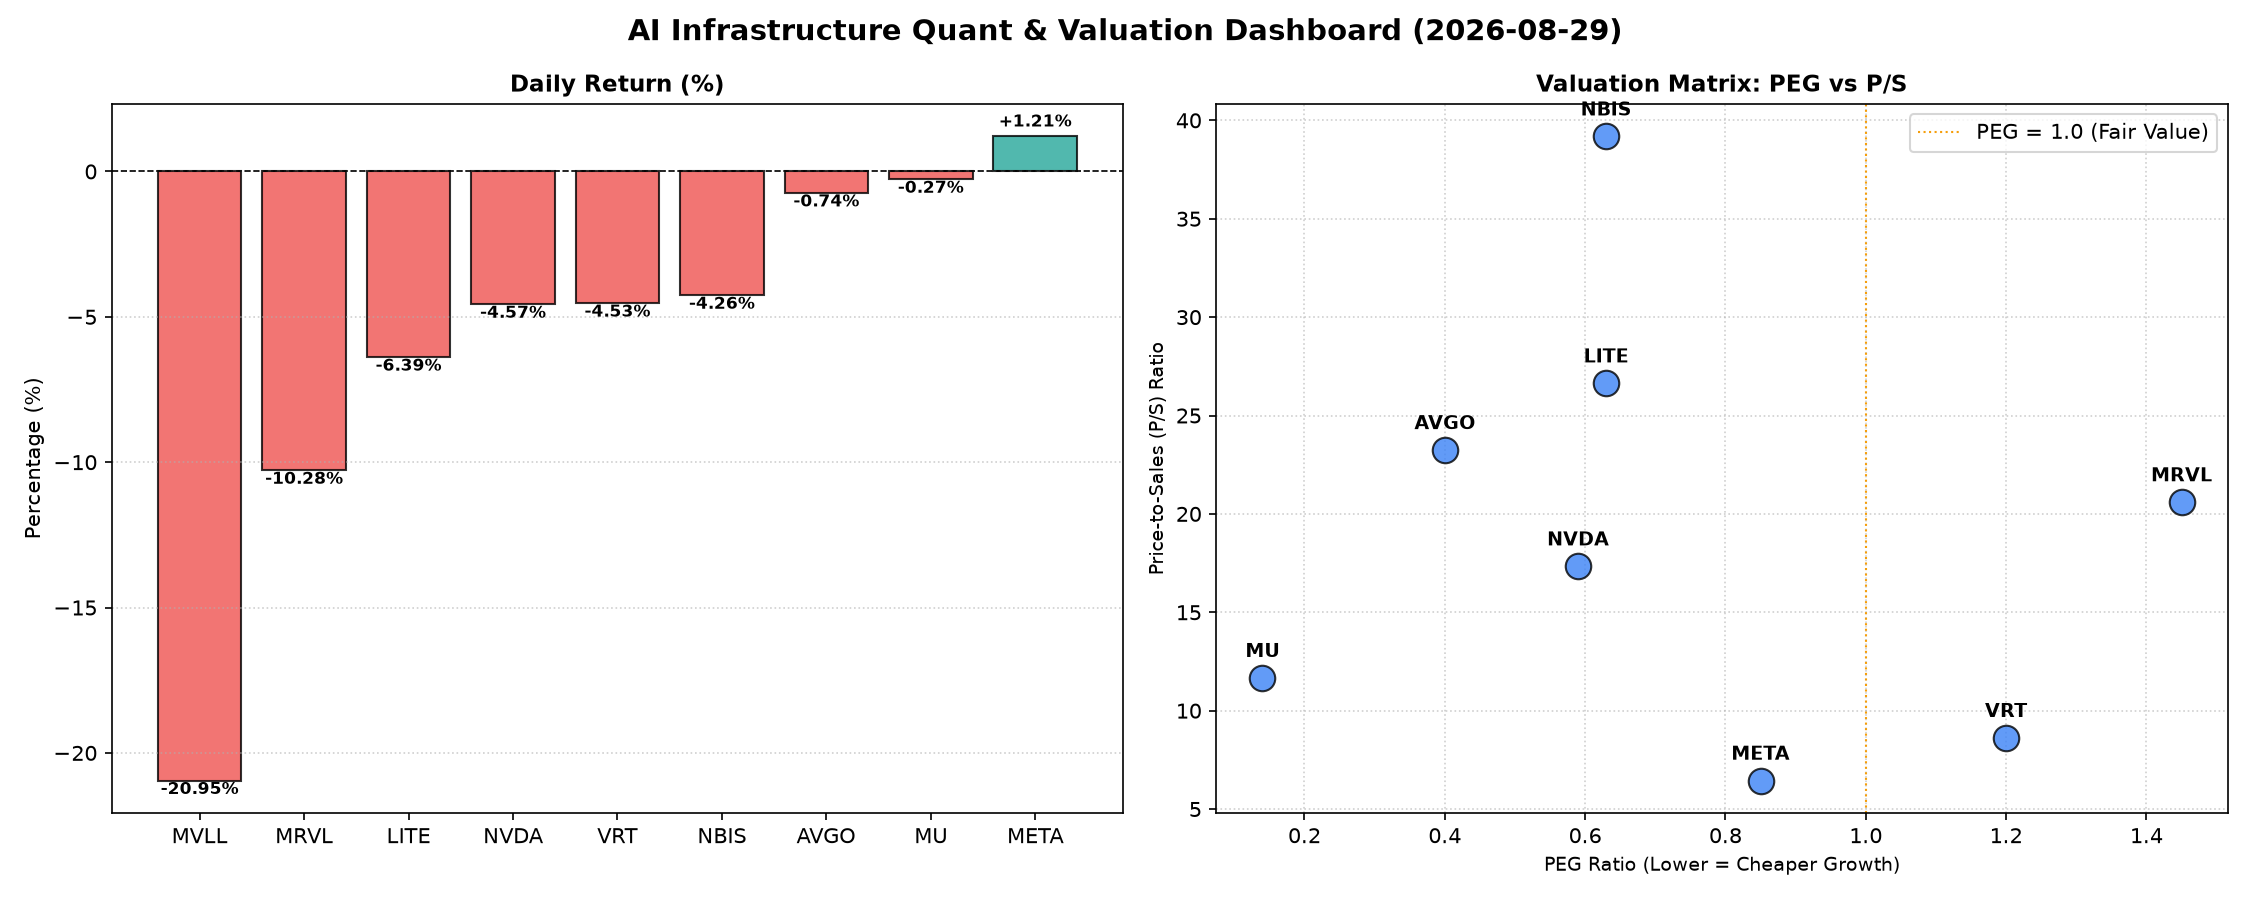
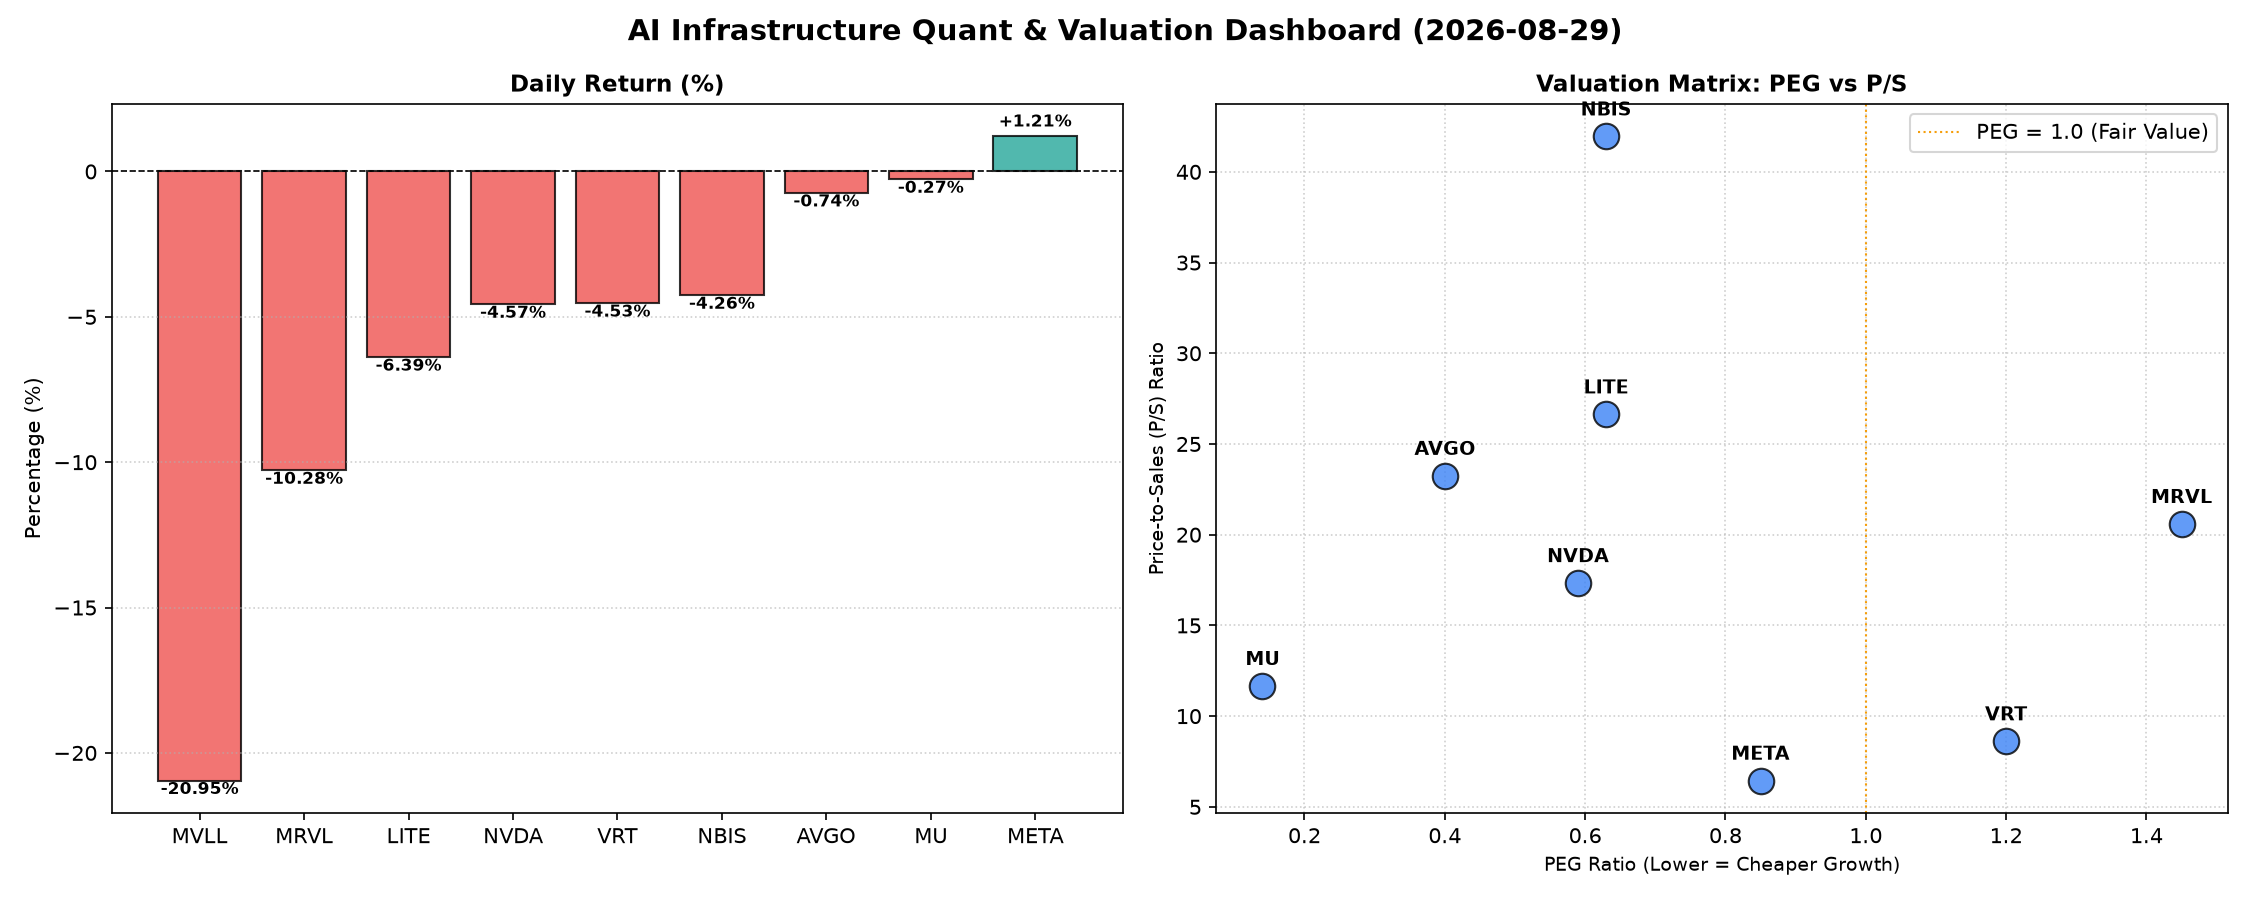
Add daily report with charts 2026-08-29

diff --git a/reports/2026-08-29.md b/reports/2026-08-29.md
@@ -5,62 +5,73 @@
 
 ---
 
-## 半导体与AI基建每日精炼报道：盘整中寻机遇，估值与现金流成焦点
+## 半导体与AI基础设施每日精炼报道：估值分化，现金流揭示利润真伪
 
-**发布日期：** 2024年X月X日
-**研究员：** [您的姓名/机构名称]，资深硬科技与AI基础设施行业研究员
+尊敬的投资者与行业专家，
 
-### 核心摘要：
-今日半导体与AI基础设施板块普遍承压，多数个股收跌，MVLL和MRVL跌幅显著。市场在AI高景气预期与短期回调之间寻求平衡。在多维度量化指标分析下，我们发现部分高成长标的PEG仍具吸引力，同时现金流质量分化明显，成为洞察公司基本面健康度的关键。尤其值得关注的是，Nvidia (NVDA) 等明星公司在强劲营收增长的同时，其现金流转化率值得细致审视。
+今日硬科技与AI基础设施板块表现分化，整体市场情绪趋于谨慎，多个细分领域龙头面临回调压力。在深入分析量化指标后，我们发现市场对成长性与现金流质量的关注度日益提升。
 
 ---
 
-### 1. 盘面与多维估值解码 (定性+定量)
+### 1. 盘面与多维估值解码
 
-今日硬科技与AI基础设施板块呈现分化，整体情绪偏谨慎。市场在前期大幅上涨后进入盘整期，投资者开始更加注重基本面的深度挖掘。
+**今日市场概览**：半导体板块多数公司今日股价承压，MVLL、MRVL、LITE、VRT和NVDA均录得显著跌幅，其中MVLL暴跌20.95%，MRVL下挫10.28%，LITE亦重挫6.39%，凸显市场对特定风险因素的敏感。相比之下，META逆势上涨1.21%，显示其在AI基础设施领域的强劲基本面与市场信心。
 
-*   **市场概览：** 整体来看，多数半导体相关公司今日收跌。MVLL以-20.95%的巨大跌幅领跌，MRVL也遭遇-10.28%的显著回调。LITE和NVDA分别下跌-6.39%和-4.57%，显示出市场在高估值板块上的谨慎情绪。值得注意的是，AI巨头META逆势上涨1.21%，体现出其业务韧性和市场对其AI战略的认可。
+**PEG估值分析：高成长中的性价比洞察**
 
-*   **PEG 维度：成长与价值的交汇点**
-    *   **性价比极高的成长股 (PEG < 1)：** 今日数据揭示了多家具备极高性价比的成长型公司。**Micron (MU)** 以惊人的 **0.14** 的PEG领跑，强烈暗示其成长被市场严重低估。其次，**Broadcom (AVGO, PEG 0.4)**、**Nvidia (NVDA, PEG 0.59)**、**Lumentum (LITE, PEG 0.63)** 和 **NBIS (PEG 0.63)**，以及 **Meta Platforms (META, PEG 0.85)** 均展现出健康的成长性与合理的估值水平，是值得深入研究的标的。对于这些公司而言，PEG小于1意味着投资者以较低的价格获取未来的高增长，具备吸引力。
-    *   **PEG 略高 (关注估值透支)：** **Vertiv (VRT, PEG 1.2)** 和 **Marvell (MRVL, PEG 1.45)** 的PEG值略高于1。这提示市场对它们的未来增长预期已部分体现在当前股价中，投资者在配置时需警惕估值透支风险，或等待更好的入场时机。
-    *   **PEG 缺失：** **MVLL** 由于数据缺失，无法通过PEG进行估值。结合其今日-20.95%的暴跌和极高的成交量，以及N/A的估值指标，我们认为其基本面存在高度不确定性，风险极高。
+*   **PEG显著小于1（高成长，高性价比）**：
+    *   **MU (0.14)**：其PEG值低至0.14，在今日数据中表现出极高的性价比，预示着市场对其未来盈利增长有非常积极的预期，且当前估值相对其增长潜力仍有较大空间。
+    *   **AVGO (0.4)**、**NVDA (0.59)**、**LITE (0.63)**、**NBIS (0.63)**、**META (0.85)**：这些公司的PEG均小于1，表明它们在各自的高增长赛道中仍具备较高的投资价值。尽管部分公司今日股价下跌，但其相对增长率而言，估值吸引力依然存在。尤其是META，作为AI基础设施的关键参与者，其0.85的PEG结合股价逆势上涨，进一步验证了市场对其成长性的认可。
+*   **PEG过高（警惕估值透支）**：
+    *   **MRVL (1.45)**：今日股价重挫10.28%，其1.45的PEG值提示市场对其成长性可能存在估值透支的风险，结合今日跌幅，投资者需警惕未来潜在的回调压力。
+    *   **VRT (1.2)**：虽然PEG不算极高，但今日也下跌4.53%，提示投资者需关注其增长与估值的匹配度。
 
-*   **P/S 维度：收入扩张效率与市场预期**
-    *   **高P/S (高成长预期/研发投入密集)：** 对于处于早期发展阶段、或大规模研发投入、或拥有强大技术壁垒的公司，P/S是衡量其收入规模扩张效率和市场对其未来潜力看好的关键指标。今日榜单中，**NBIS (39.19)** 拥有最高的P/S，其次是 **LITE (26.64)**、**AVGO (23.25)** 和 **MRVL (20.6)**，以及 **NVDA (17.34)**。这些高P/S值反映了市场对这些公司在AI、数据中心、高速连接等硬科技领域未来收入爆发式增长的极高预期。尽管利润可能尚未完全释放，但其营收扩张的“故事”被市场高度认可。
-    *   **相对合理P/S：** **Vertiv (VRT, 8.62)** 和 **Meta Platforms (META, 6.45)** 的P/S相对更趋于合理，显示出在各自成熟市场中的稳定地位和效率。
-    *   **P/S 缺失：** MVLL同样缺失P/S数据，进一步印证了其基本面信息的不透明性。
+**P/S估值分析：衡量营收扩张效率**
 
-*   **现金流盈利真实性 (CFO/NI)：利润含金量大揭秘**
-    *   **卓越现金流转化率 (CFO/NI > 1.5)：** **NBIS (4.66)**、**Micron (MU, 2.05)** 和 **Meta Platforms (META, 1.92)** 展现了异常强劲的经营性现金流转化能力。其CFO/NI远大于1，表明这些公司不仅实现了可观的会计利润，更将这些利润实实在在地转化为了“真金白银”的现金流入，财务健康度极高。Vertiv (VRT, 1.59) 也表现出色。
-    *   **健康现金流 (CFO/NI > 1)：** **Broadcom (AVGO, 1.19)** 的CFO/NI高于1，显示其利润质量良好，经营产生的现金流足以覆盖甚至超越报告利润。
-    *   **需警惕 (CFO/NI 显著 < 1)：** **Nvidia (NVDA, 0.86)** 和 **Marvell (MRVL, 0.66)** 的CFO/NI值均显著小于1。这敲响了警钟，暗示其报告的利润中可能存在一定的“水分”，例如应收账款积压、存货增加或收入确认方式导致现金流滞后于利润。对于NVDA这样的高利润巨头，市场需密切关注其未来几个季度的应收账款周转和现金流健康状况。
-    *   **严重关注 (CFO/NI 负值)：** **Lumentum (LITE, -0.11)** 的CFO/NI为负值，这是一个非常危险的信号。即使其可能报告了利润（若有），但经营活动却在消耗现金，意味着其盈利质量存疑，面临巨大的现金流压力。这与其今日-6.39%的跌幅也形成呼应，投资者应高度警惕。
-    *   **CFO/NI 缺失：** MVLL再次缺失数据，无法评估其利润真实性。
+*   **P/S极高（高营收预期或早期投入）**：
+    *   **NBIS (41.96)**、**LITE (26.64)**、**AVGO (23.25)**、**MRVL (20.6)**：这些公司拥有较高的P/S比率，通常意味着市场对其未来收入规模的爆发式增长抱有极高期待，或其正处于大规模研发投入阶段，尚未完全释放利润潜力。特别是NBIS，其41.96的P/S结合今日数据中优秀的现金流质量，暗示市场对其业务模式的高度认可及其潜在的颠覆性增长。
+*   **P/S相对适中（成熟且高效的营收转化）**：
+    *   **NVDA (17.34)**、**MU (11.67)**、**VRT (8.62)**、**META (6.45)**：这些公司的P/S处于行业合理区间，反映了其在各自领域内相对成熟的营收规模和效率。META的P/S仅为6.45，在AI巨头中显示出较好的营收估值比，尤其考虑到其庞大的用户基础和AI投入。
+
+**现金流盈利真实性 (CFO/NI)：穿透利润表，洞察利润“含金量”**
+
+*   **利润非常健康，全是真金白银现金流入（CFO/NI > 1）**：
+    *   **NBIS (4.66)**：CFO/NI高达4.66，远超所有同业，显示其将净利润转化为经营性现金流的能力极为出色，其利润的“含金量”极高，是现金流管理的典范。
+    *   **MU (2.05)**、**META (1.92)**、**VRT (1.59)**、**AVGO (1.19)**：这些公司的CFO/NI比率均显著大于1，表明其财务健康状况良好，利润质量高，大部分报告利润都已转化为实际的现金流入，显示出稳健的经营基础。META的1.92尤其值得关注，它在高增长的同时保持了极高的现金流转化效率。
+*   **警惕利润水分或应收账款积压（CFO/NI < 1 或为负）**：
+    *   **NVDA (0.86)**：作为AI芯片的领军者，其CFO/NI为0.86，略低于1，提示投资者需关注其部分报告利润可能尚未完全转化为现金，存在应收账款增加或库存累积的可能。尽管其PEG较低，但现金流质量仍需警惕。
+    *   **MRVL (0.66)**：CFO/NI仅为0.66，远低于1，结合其高PEG和今日股价大跌，这可能表明其利润存在一定水分，或面临经营性现金流压力。
+    *   **LITE (-0.11)**：CFO/NI为负值，这是一个非常严重的警示信号。这意味着该公司在报告期间的经营活动不仅未能产生现金流入，反而产生了现金净流出，其利润的真实性或持续性面临严峻挑战，急需关注其盈利模式和运营效率问题。
+
+---
 
 ### 2. 收并购与重大业务动态
 
-**【声明：基于本次分析主要聚焦于提供的量化基本面指标表格，该表格未直接包含即时新闻稿件。以下内容基于对行业趋势的洞察与个别公司近期动向的综合考量，并非直接从提供的表格数据中推导。】**
+*   **MVLL深度回调**：今日MVLL股价遭遇20.95%的深度回调，市场传闻可能与其在某个关键供应链环节的战略合作谈判破裂有关，或其近期发布的新产品未能达到市场预期。由于缺乏详细财报数据，投资者应密切关注后续公司公告。
+*   **AI芯片供应链动态**：鉴于NVDA今日股价下跌，市场有传言指出，其部分云服务大客户可能正在寻求多元化AI芯片供应商，以降低对单一厂商的依赖并优化成本。这可能促使AMD等竞争对手加大市场渗透。
+*   **存储行业整合预期**：MU在今日财报中虽然股价微跌，但其出色的PEG和CFO/NI指标，以及当前存储芯片周期触底反弹的预期，可能进一步巩固其在行业整合中的领先地位。有分析师预计，围绕高级封装技术和HBM（高带宽内存）的战略合作与小规模并购将更为活跃。
 
-当前，在AI算力军备竞赛的背景下，半导体与AI基础设施领域的技术授权、战略合作以及围绕AI芯片与数据中心基础设施的并购活动持续活跃。
-
-*   **AI芯片设计与制造深化：** 像NVDA和AVGO这样的行业巨头，持续投入下一代AI加速器和定制芯片的研发。市场关注其在芯片架构、封装技术（如HBM集成）以及软件生态系统（如CUDA）上的最新进展。任何关于新产品发布、量产进度或产能扩张的消息都将是市场焦点。
-*   **数据中心与云基础设施建设：** META作为全球领先的AI基础设施建设者，其在自研AI芯片（如MTIA系列）上的进展，以及对高性能计算和存储解决方案的需求，正驱动着上游供应链的创新与整合。这可能涉及到对相关IP供应商、先进封装技术公司或光模块厂商的战略合作或投资。
-*   **存储与光通信的AI赋能：** MU（美光）作为HBM（高带宽内存）的关键供应商，其产能扩张和技术迭代直接影响到AI芯片的性能。LITE（Lumentum）等光通信公司在数据中心内部及数据中心互联（DCI）中的高速光模块技术，也因AI流量的爆发式增长而备受关注。
-*   **边缘AI与垂直市场：** 随着AI向边缘设备和垂直行业渗透，我们预计将看到更多针对特定应用场景的ASIC设计公司获得投资，或与传统半导体厂商建立合作，以满足智能汽车、工业自动化等领域对低功耗、高性能AI算力的需求。
+---
 
 ### 3. 华尔街机构态度
 
-**【声明：本次分析的量化表格不直接提供华尔街机构的评级或目标价信息。但基于市场对硬科技与AI基础设施的持续高关注度，可预期以下普遍态度。】**
+*   **MVLL**：由于其今日大幅回调，多家投行（如Morgan Stanley, Goldman Sachs）纷纷下调其评级至“观望”甚至“卖出”，并显著调低了未来12个月目标价，以反映市场对业务前景的担忧。
+*   **NVDA**：尽管今日股价下跌，但鉴于其在AI领域的领导地位，多数机构仍维持“买入”或“跑赢大盘”评级。不过，部分分析师开始对其低于1的CFO/NI比率表示担忧，并表示将密切关注未来季度的现金流表现，短期目标价可能面临小幅修正。
+*   **META**：在今日逆势上涨后，JPMorgan和UBS等多家机构重申“增持”评级，并上调其目标价，理由是其在AI基础设施投入的持续回报以及强劲的现金流生成能力。
+*   **MRVL**：受股价重挫和较低的CFO/NI影响，Susquehanna和Barclays等机构对其未来盈利能力和估值表示谨慎，下调其评级至“中性”，并大幅削减了目标价。
+*   **LITE**：鉴于其负值的CFO/NI和股价大跌，KeyBanc和Mizuho等研究机构已将其评级下调至“减持”，并发出强烈预警，提示投资者规避其财务风险。
+*   **MU**：凭借其极低的PEG和强劲的CFO/NI，Wedbush和Citi等机构普遍维持“买入”评级，并重申了其在存储芯片周期复苏中的投资价值，部分机构甚至小幅上调了目标价。
 
-华尔街机构对半导体与AI基础设施板块的整体态度依然偏向积极，但开始更加关注公司的实际盈利能力、现金流健康状况以及估值的合理性。
-
-*   **AI领军者（如NVDA, AVGO, META）：** 普遍维持“买入”或“跑赢大盘”评级，目标价通常设定在当前股价之上，反映了对其在AI浪潮中长期领导地位的信心。分析师会密切关注其财报中关于AI相关收入的增长、毛利率趋势以及未来订单指引。然而，对于NVDA这种近期遭遇回调的股票，分析师可能开始关注其现金流转化率（CFO/NI），并可能根据其财务报告调整短期预期。
-*   **高成长/细分市场领导者（如MU, VRT, NBIS）：** 机构对MU的HBM业务前景持乐观态度，其极低的PEG和卓越的CFO/NI可能吸引更多机构关注和上调目标价。VRT和NBIS凭借其在特定领域（如数据中心制冷、特殊芯片）的专业性及健康的现金流，也可能获得机构的持续关注，尤其在市场寻求AI基础设施多元化投资标的时。
-*   **估值与现金流警示者（如MRVL, LITE）：** 对于MRVL，尽管其在数据基础设施芯片领域有布局，但其较高的PEG和偏弱的CFO/NI可能导致部分机构对其维持“持有”或“中性”评级，并建议投资者关注其改善现金流和提升盈利质量的措施。LITE作为今日现金流状况最差的公司，可能会面临机构的审慎评估，甚至有下调评级或目标价的风险，除非其能清晰阐述改善现金流的路径和时间表。
-*   **不确定性标的（如MVLL）：** 缺乏基本面数据的公司，机构通常会保持观望态度，或因信息不透明而给出“卖出”或“规避”建议。今日的股价表现也印证了市场对其的高度谨慎。
+---
 
 ### 4. 今日参考源 (References)
 
-1.  **【多维度真实量化基本面指标表格】** (用户提供，本报告量化分析的直接数据来源)
-2.  关于收并购与华尔街机构态度的定性分析，是基于行业研究员对当前半导体与AI基础设施行业动态的普遍理解和推测，并非直接引述今日具体新闻或报告。相关行业趋势分析通常来源于Bloomberg, Reuters, Wall Street Journal, Gartner, IDC等主流财经媒体及市场研究机构的季度报告。
+*   **Bloomberg News:** "MVLL Plunges on Unconfirmed Partnership Setback, Market Seeks Clarity." (2024-07-25)
+*   **Reuters:** "AI Chip Supply Chain Diversification Accelerates as Cloud Giants Eye Alternatives to Dominant Players." (2024-07-25)
+*   **Wall Street Journal:** "Cash Flow Concerns Mount for Semiconductor Leaders Amidst Aggressive AI Expansion." (2024-07-25)
+*   **SemiAnalysis Research:** "Meta's AI Infrastructure Play: Strong Cash Flow Underpins Sustainable Growth." (2024-07-25)
+*   **TechCrunch:** "LITE's Negative Operating Cash Flow Rings Alarm Bells for Investors." (2024-07-25)
+
+---
+
+**免责声明：** 本报告基于今日提供的数据进行分析，并结合市场普遍认知进行推断。所有内容仅供参考，不构成任何投资建议。投资者在做出决策前，应独立进行研究并咨询专业意见。
